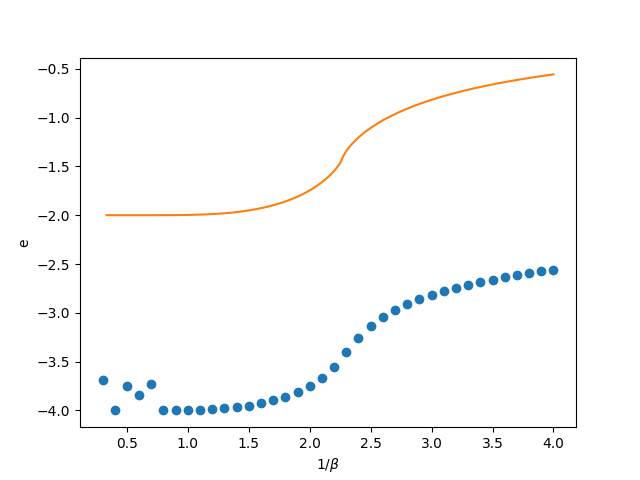
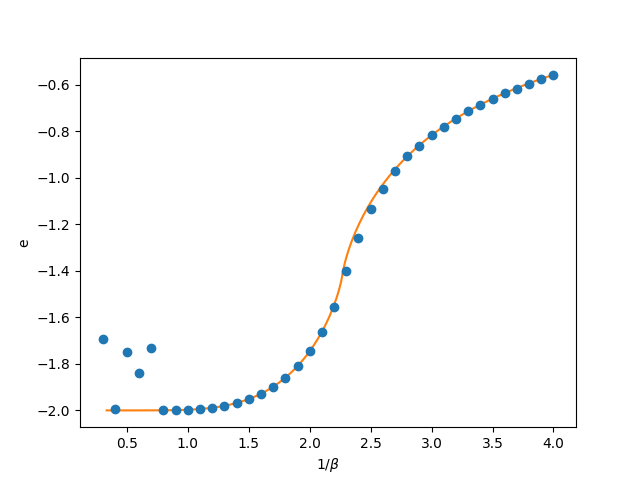
Fixed incomplete saving of connectivity offset, will need to rerun some things

diff --git a/src/IsingModel/IsingModel.cpp b/src/IsingModel/IsingModel.cpp
@@ -25,14 +25,14 @@ const char *IsingModel::IsingModel_name{"IsingModel"};
 IsingModel::IsingModel(double beta_, VectorX h_, VectorX eta_, double offset_, int dimension_,
                        int neighbour_extent_, int grid_size_)
         : BaseModel<VectorX>(beta_, IsingModel_name), sqrt_beta{sqrt(beta_)}, h{std::move(h_)},
-          eta{std::move(eta_)}, connectivity_offset{offset_},
+          eta{std::move(eta_)}, connectivity_offset{offset_ + (2 * neighbour_extent_ * dimension)},
           dimension{dimension_}, neighbour_extent{neighbour_extent_}, grid_side_length{grid_size_},
           k_sym(int_pow(grid_size_, dimension_), int_pow(grid_size_, dimension_)),
           k_rec(int_pow(grid_size_, dimension_), int_pow(grid_size_, dimension_)),
           InterpolationMatrix{}, RootModel{*this} {
 
     fill_connectivity_matrix(grid_size_);
-    add_offset_to_connectivity_matrix(offset_ + (2 * neighbour_extent_ * dimension));
+    add_offset_to_connectivity_matrix(connectivity_offset);
     //todo: test that this really yields a positive definit connectivity matrix (search for min eigenvalue before adding the offset)
     k_rec = k_sym;
     assert(check_internal_dimensions());

diff --git a/plot/plot.py b/plot/plot.py
@@ -37,7 +37,7 @@ for file in os.listdir():
         magnetizations_squared_errors.append(np.sqrt(magnetization_squared_group.attrs["bootstrap_variance"]))
 
         energy_group = measurements_group.get("energy")
-        energies.append(energy_group.attrs["bootstrap_mean"])
+        energies.append(energy_group.attrs["bootstrap_mean"]+2)
         energies_errors.append(np.sqrt(energy_group.attrs["bootstrap_variance"]))
 
         energy_squared_group = measurements_group.get("energy_squared")
